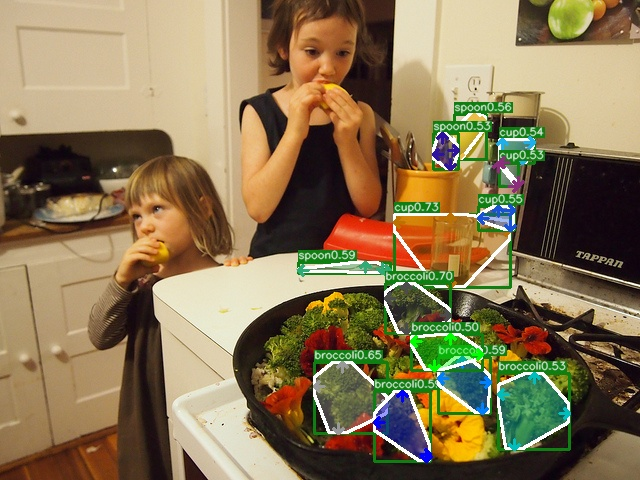
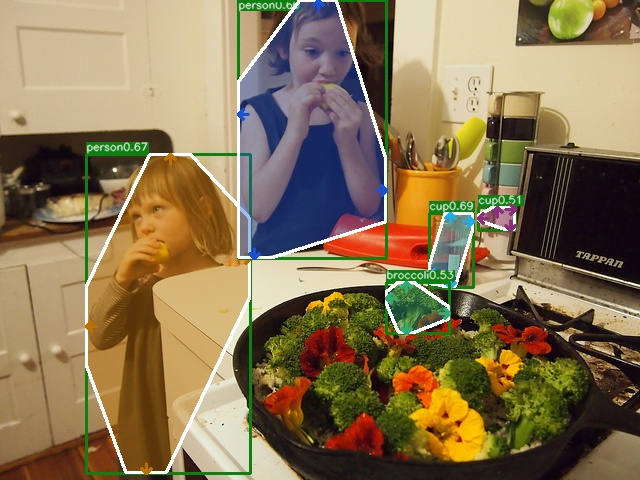
normalize scores -- missing points in 000000500057_out; getting better in 000000500069_out...generally, detections are good

diff --git a/models/py_utils/exkp.py b/models/py_utils/exkp.py
@@ -129,7 +129,8 @@ def yezheng_inds_lrtb(l_heat,r_heat,t_heat,b_heat,  kernel#, aggr_weight
 
 
 def inv_sigmoid(T):
-    ret = -torch.log(1/T-1)
+    print("[inv_sigmoid] torch.max(T)", torch.max(T))
+    ret = -torch.log(torch.reciprocal(T)-1)
     return ret 
 class exkp(nn.Module):
     def __init__(
@@ -299,7 +300,7 @@ class exkp(nn.Module):
             heat_thresh = -math.log(1/scores_thresh-1)
             center_thresh=0.1
             center_heat_thresh = -math.log(1/center_thresh-1)
-            num_dets=1000#1000#yezheng: what does this mean?
+            num_dets = 1000 #1000#yezheng: what does this mean?
             batch, cat, height, width = t_heat.size()
 
 
@@ -316,6 +317,8 @@ class exkp(nn.Module):
             r_heat = _filter(r_heat, direction='v', val=filter_kernel)
             '''
 
+
+            
             
            
             if aggr_weight > 0:#check 000000500043_out.jpg to see differences
@@ -329,7 +332,29 @@ class exkp(nn.Module):
             #     l_scores = _v_aggregate(l_scores, aggr_weight=aggr_weight)
             #     b_scores = _h_aggregate(b_scores, aggr_weight=aggr_weight)
             #     r_scores = _v_aggregate(r_scores, aggr_weight=aggr_weight)
+            # print("torch.sum(torch.abs(t_heat - t_scores))", torch.sum(torch.abs(t_heat - t_scores)))
             
+            
+            
+
+
+            #yezheng: I can do not have to do nms, but anyway, I cannot do nms before sigmoid
+            # perform nms on heatmaps
+            #check 000000500043_out.jpg to see differences
+            t_heat = inv_sigmoid(_nms(torch.sigmoid(t_heat), kernel=kernel))
+            l_heat = inv_sigmoid(_nms(torch.sigmoid(l_heat), kernel=kernel))
+            b_heat = inv_sigmoid(_nms(torch.sigmoid(b_heat), kernel=kernel))
+            r_heat = inv_sigmoid(_nms(torch.sigmoid(r_heat), kernel=kernel))
+
+            # t_scores = _nms(t_scores, kernel=kernel)
+            # l_scores = _nms(l_scores, kernel=kernel)
+            # b_scores = _nms(b_scores, kernel=kernel)
+            # r_scores = _nms(r_scores, kernel=kernel)
+            
+            # t_heat[t_heat > 1] = 1
+            # l_heat[l_heat > 1] = 1
+            # b_heat[b_heat > 1] = 1
+            # r_heat[r_heat > 1] = 1
 
             t_scores = torch.sigmoid(t_heat)
             l_scores = torch.sigmoid(l_heat)
@@ -337,31 +362,11 @@ class exkp(nn.Module):
             r_scores = torch.sigmoid(r_heat)
             ct_scores = torch.sigmoid(ct_heat)
             
-
             del t_heat
             del l_heat
             del b_heat
             del r_heat
             del ct_heat
-
-
-            #yezheng: I can do not have to do nms, but anyway, I cannot do nms before sigmoid
-            # perform nms on heatmaps
-            #check 000000500043_out.jpg to see differences
-            # t_heat = inv_sigmoid(_nms(torch.sigmoid(t_heat), kernel=kernel))
-            # l_heat = inv_sigmoid(_nms(torch.sigmoid(l_heat), kernel=kernel))
-            # b_heat = inv_sigmoid(_nms(torch.sigmoid(b_heat), kernel=kernel))
-            # r_heat = inv_sigmoid(_nms(torch.sigmoid(r_heat), kernel=kernel))
-
-            t_scores = _nms(t_scores, kernel=kernel)
-            l_scores = _nms(l_scores, kernel=kernel)
-            b_scores = _nms(b_scores, kernel=kernel)
-            r_scores = _nms(r_scores, kernel=kernel)
-            
-            # t_heat[t_heat > 1] = 1
-            # l_heat[l_heat > 1] = 1
-            # b_heat[b_heat > 1] = 1
-            # r_heat[r_heat > 1] = 1
 
            
             # these two does not have much difference

diff --git a/models/py_utils/kp_utils.py b/models/py_utils/kp_utils.py
@@ -72,7 +72,10 @@ def _left_aggregate(heat):
     for i in range(1, heat.shape[1]):
         inds = (heat[:, i] >= heat[:, i -1])
         ret[:, i] += ret[:, i - 1] * inds.float()
-    return (ret - heat).reshape(shape) 
+    _ret = (ret - heat).reshape(shape) 
+    del ret
+    _ret = _ret/ torch.max(_ret)#yezheng's normalization
+    return _ret
 
 def _right_aggregate(heat):
     '''
@@ -84,7 +87,11 @@ def _right_aggregate(heat):
     for i in range(heat.shape[1] - 2, -1, -1):
         inds = (heat[:, i] >= heat[:, i +1])
         ret[:, i] += ret[:, i + 1] * inds.float()
-    return (ret - heat).reshape(shape) 
+    _ret = (ret - heat).reshape(shape) 
+    del ret
+    _ret = _ret/ torch.max(_ret)#yezheng's normalization
+    return _ret 
+
 
 def _top_aggregate(heat):
     '''
@@ -97,7 +104,10 @@ def _top_aggregate(heat):
     for i in range(1, heat.shape[1]):
         inds = (heat[:, i] >= heat[:, i - 1])
         ret[:, i] += ret[:, i - 1] * inds.float()
-    return (ret - heat).reshape(shape).transpose(3, 2)
+    _ret = (ret - heat).reshape(shape).transpose(3, 2)
+    del ret
+    _ret = _ret/ torch.max(_ret)#yezheng's normalization
+    return _ret
 
 def _bottom_aggregate(heat):
     '''
@@ -110,15 +120,18 @@ def _bottom_aggregate(heat):
     for i in range(heat.shape[1] - 2, -1, -1):
         inds = (heat[:, i] >= heat[:, i + 1])
         ret[:, i] += ret[:, i + 1] * inds.float()
-    return (ret - heat).reshape(shape).transpose(3, 2)
+    _ret = (ret - heat).reshape(shape).transpose(3, 2)
+    del ret
+    _ret = _ret/ torch.max(_ret)#yezheng's normalization
+    return _ret
 
-def _h_aggregate(heat, aggr_weight=0.1):
-    return aggr_weight * _left_aggregate(heat) + \
-           aggr_weight * _right_aggregate(heat) + heat
+def _h_aggregate(score, aggr_weight=0.1):
+    return aggr_weight * _left_aggregate(score) + \
+           aggr_weight * _right_aggregate(score) + (1- 2*aggr_weight)*score
 
-def _v_aggregate(heat, aggr_weight=0.1):
-    return aggr_weight * _top_aggregate(heat) + \
-           aggr_weight * _bottom_aggregate(heat) + heat
+def _v_aggregate(score, aggr_weight=0.1):
+    return aggr_weight * _top_aggregate(score) + \
+           aggr_weight * _bottom_aggregate(score) + (1- 2*aggr_weight)*score
 
 def _tranpose_and_gather_feat(feat, ind):
     # print("[kp_utils.py _tranpose_and_gather_feat] feat (before)", feat.shape,feat)
